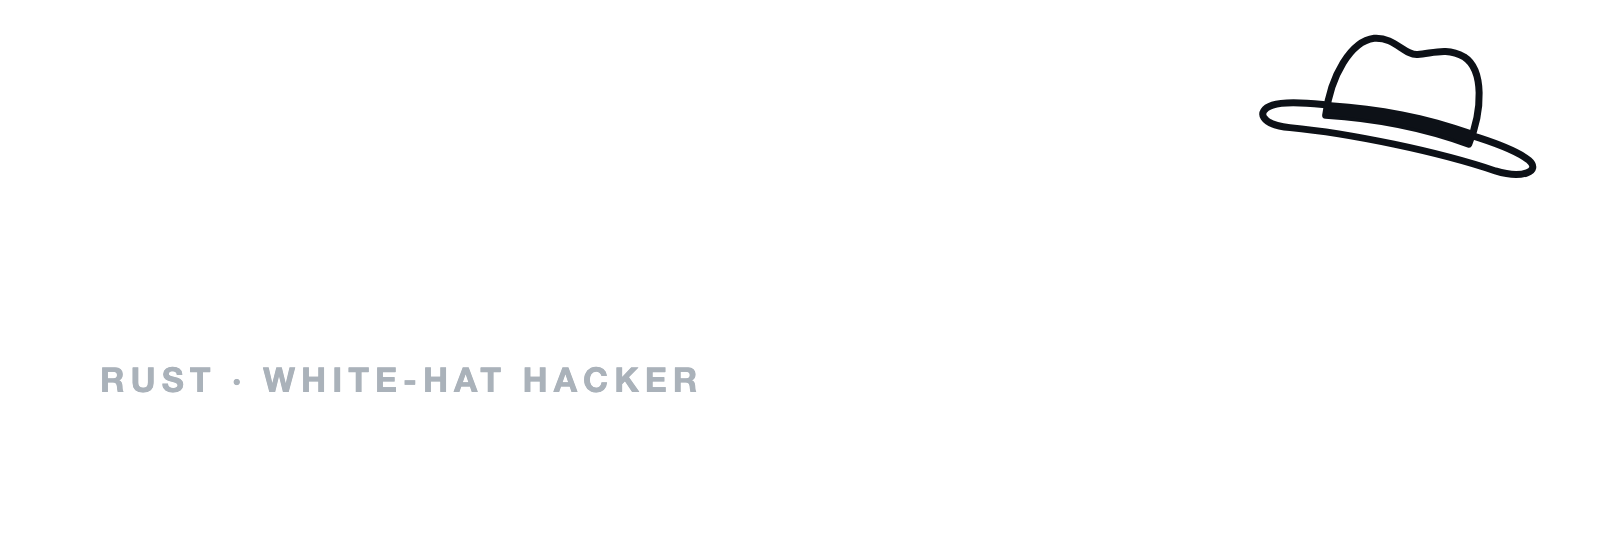
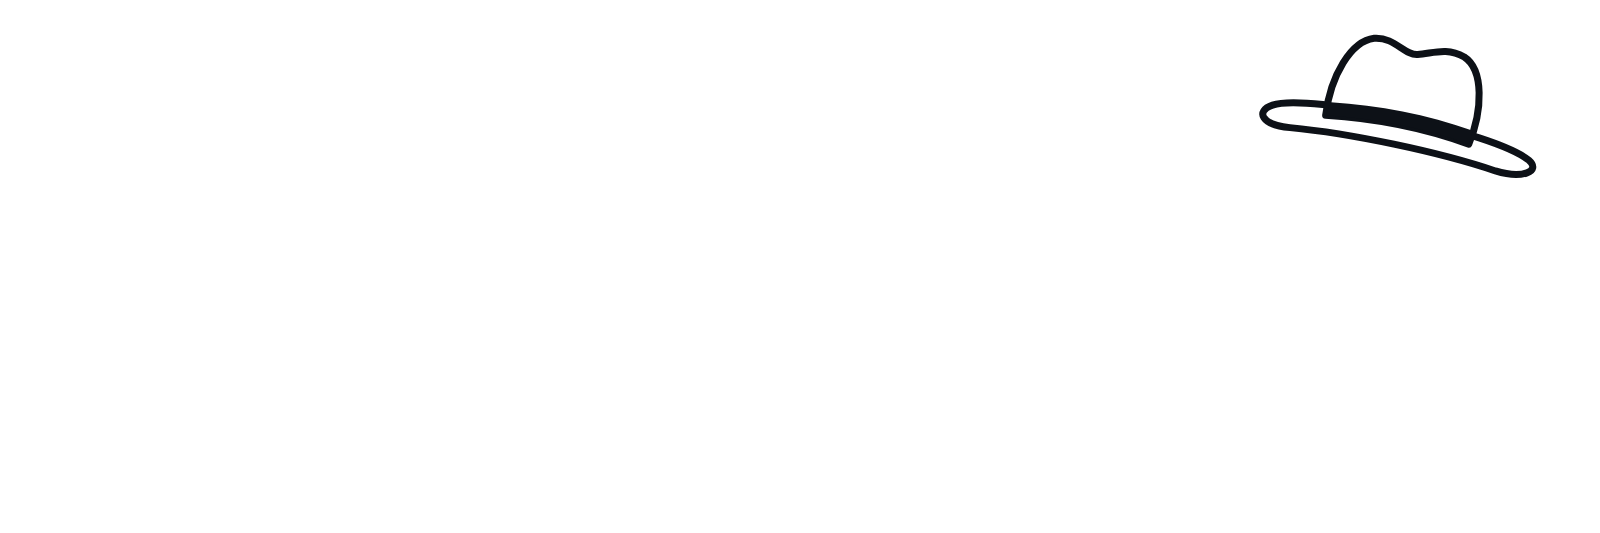
feat: バナーの RUST · WHITE-HAT HACKER の文字を外す

Changed region(s): [[0.0625, 0.6904, 0.4375, 0.7505]]

diff --git a/README.md b/README.md
@@ -1,7 +1,7 @@
 <p align="center">
   <picture>
     <source media="(prefers-color-scheme: dark)" srcset="assets/banner-dark.png">
-    <img src="assets/banner-light.png" alt="h.kurashina — Rust · White-hat hacker (a chess knight wearing a white hat)" width="100%">
+    <img src="assets/banner-light.png" alt="h.kurashina — a chess knight wearing a white hat" width="100%">
   </picture>
 </p>
 
